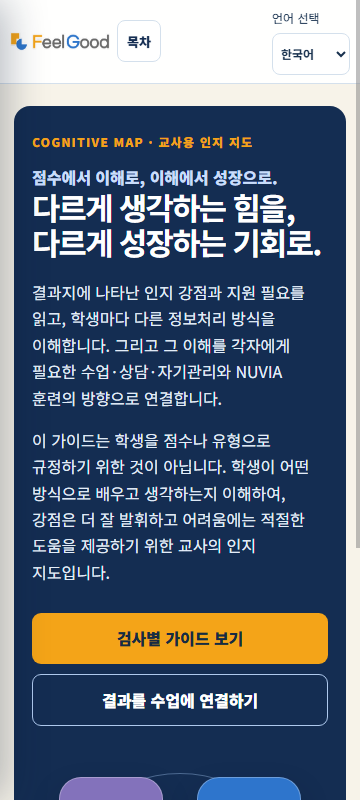
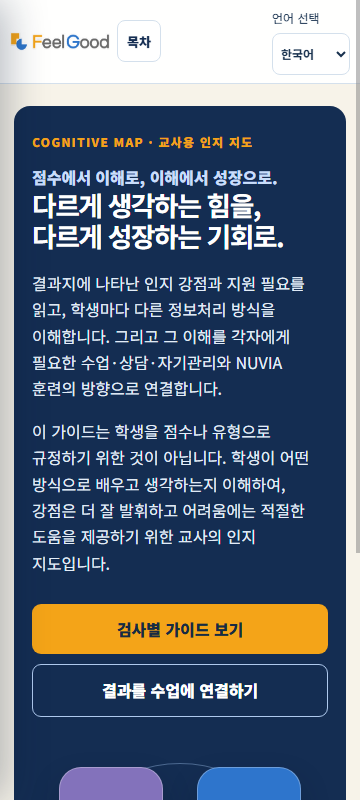
fix: keep opening headline to two lines

diff --git a/teacher-guide/index.html b/teacher-guide/index.html
@@ -52,7 +52,7 @@
         <div class="opening-copy">
           <p class="eyebrow">COGNITIVE MAP · 교사용 인지 지도</p>
           <p class="lead">점수에서 이해로, 이해에서 성장으로.</p>
-          <h2>다르게 생각하는 힘을,<br>다르게 성장하는 기회로.</h2>
+          <h2 class="opening-title"><span>다르게 생각하는 힘을,</span><span>다르게 성장하는 기회로.</span></h2>
           <p>결과지에 나타난 인지 강점과 지원 필요를 읽고, 학생마다 다른 정보처리 방식을 이해합니다. 그리고 그 이해를 각자에게 필요한 수업·상담·자기관리와 NUVIA 훈련의 방향으로 연결합니다.</p>
           <p>이 가이드는 학생을 점수나 유형으로 규정하기 위한 것이 아닙니다. 학생이 어떤 방식으로 배우고 생각하는지 이해하여, 강점은 더 잘 발휘하고 어려움에는 적절한 도움을 제공하기 위한 교사의 인지 지도입니다.</p>
           <div class="actions"><button class="button gold" type="button" data-go="pathways">검사별 가이드 보기</button><button class="button line" type="button" data-go="teacher">결과를 수업에 연결하기</button></div>

diff --git a/teacher-guide/ebook.css b/teacher-guide/ebook.css
@@ -195,7 +195,12 @@ a:focus-visible, button:focus-visible, input:focus-visible, select:focus-visible
   background: var(--navy);
   color: #fff;
 }
-.opening-copy { position: relative; z-index: 2; min-width: 0; }
+.opening-copy { position: relative; z-index: 2; min-width: 0; container-type: inline-size; }
+.chapter-opening .opening-title {
+  font-size: clamp(24px, 9cqi, 46px);
+  line-height: 1.16;
+}
+.opening-title span { display: block; white-space: nowrap; }
 .opening-copy > p:not(.eyebrow, .lead) {
   max-width: 650px;
   color: #e3edf9;
